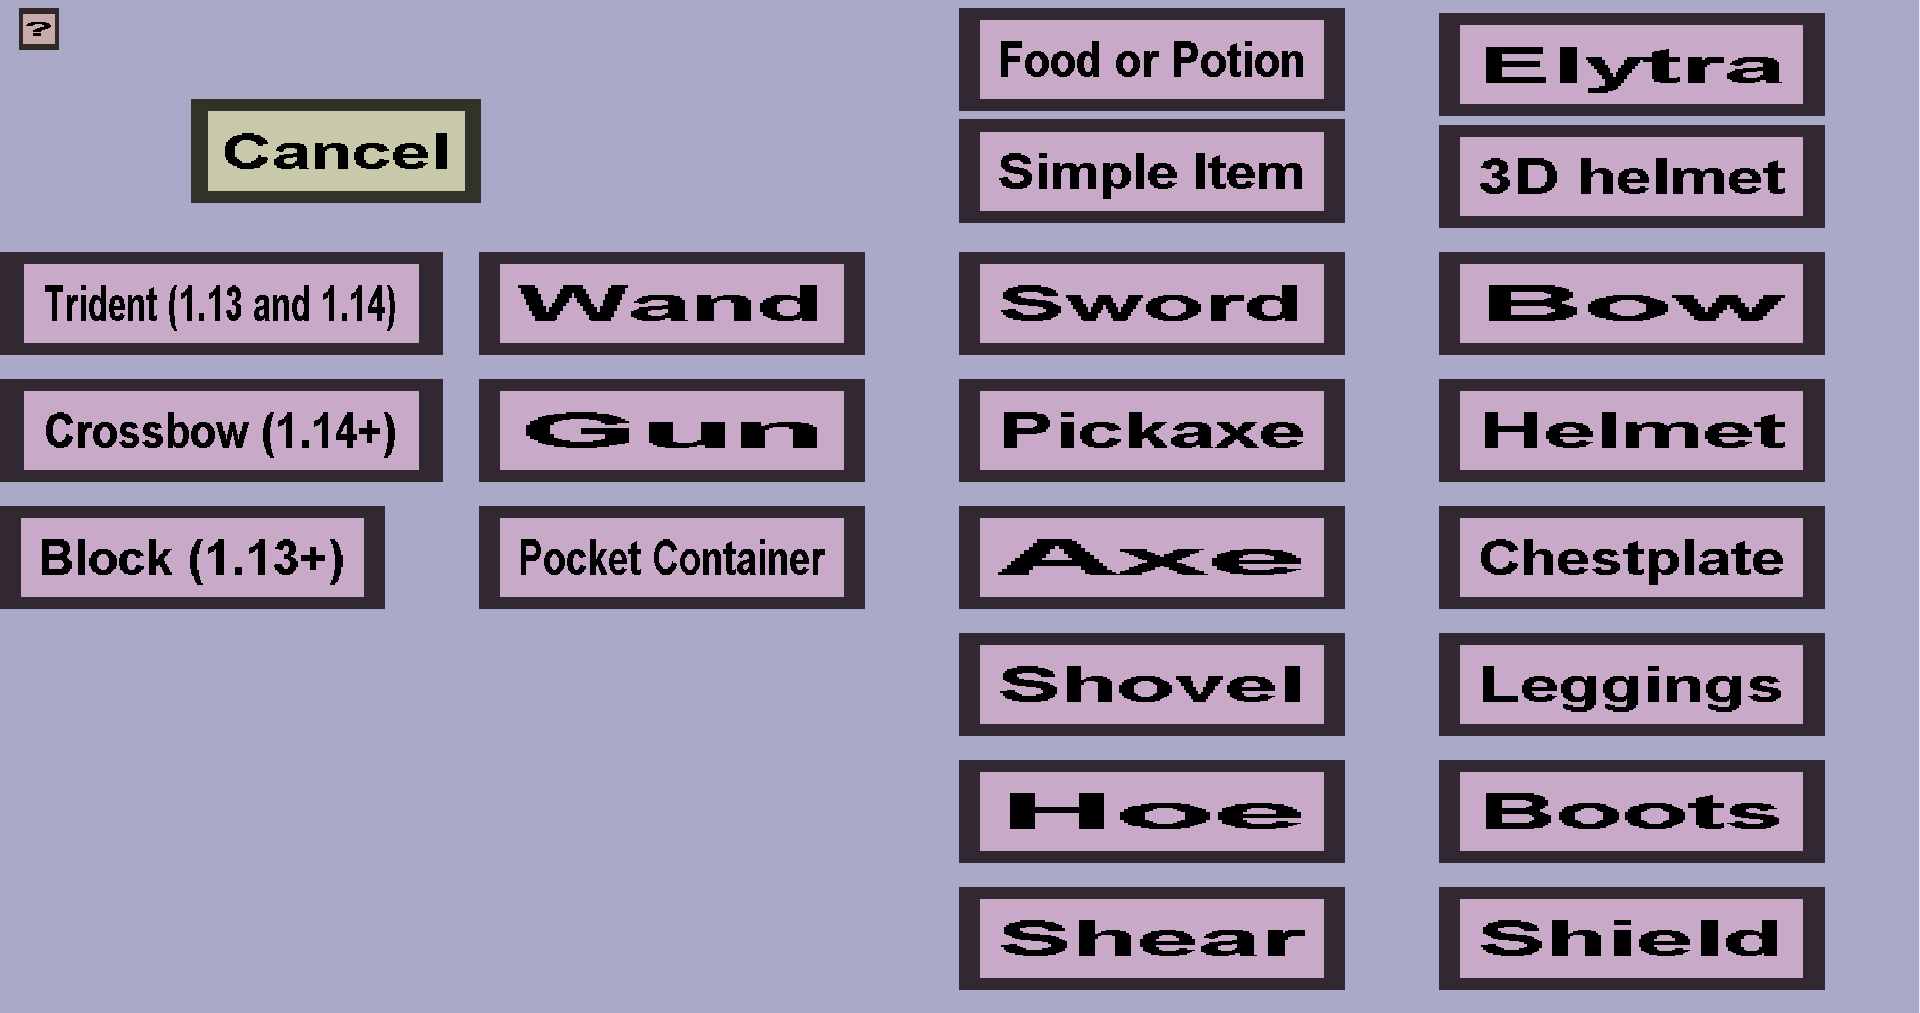
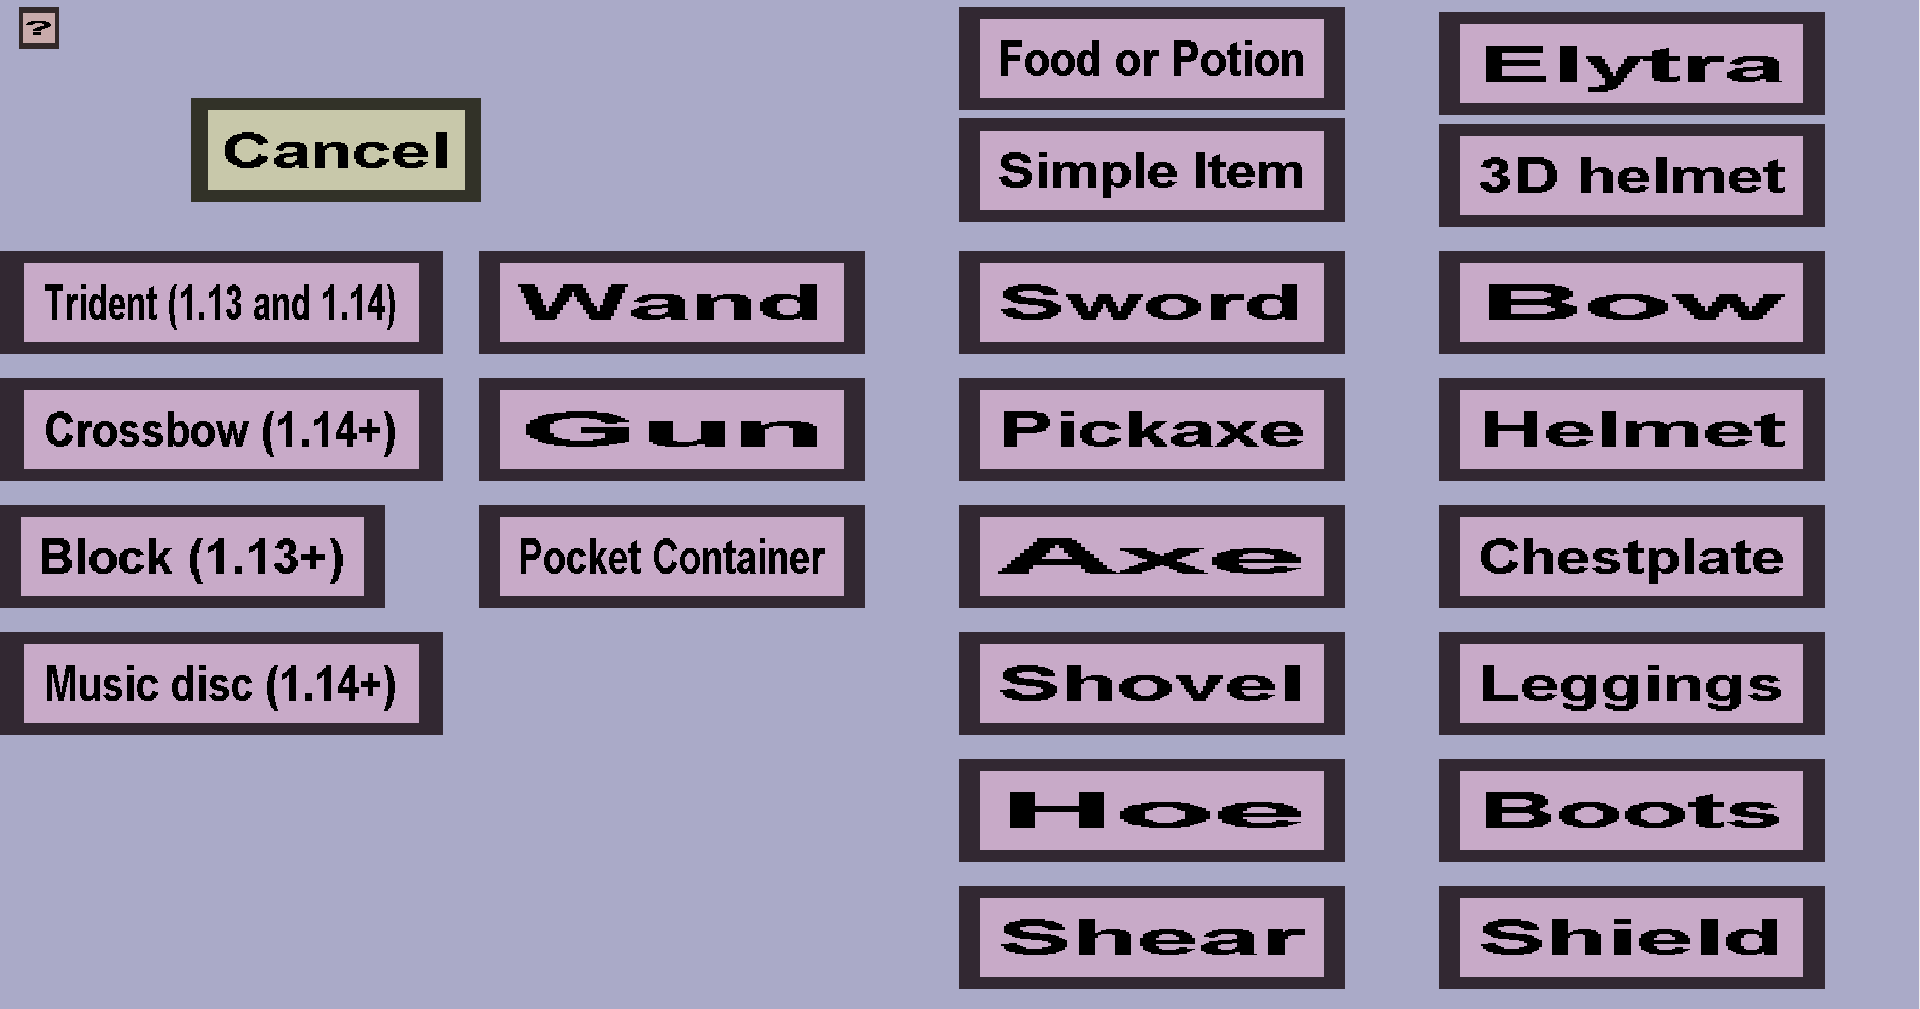
Document the custom music discs of custom items 11

diff --git a/custom items/editor documentation/edit menu/items/select type.html b/custom items/editor documentation/edit menu/items/select type.html
@@ -123,6 +123,13 @@
                     <b>Note: you need to create the corresponding block first.</b>
                 </li>
                 <li>
+                    'Music disc (1.14+)' is used for custom music discs. These are items that can
+                    be put in a jukebox, after which they will play their (custom) sound or music.
+                    They are only available in minecraft 1.14 or later because they must use real music
+                    discs as their internal item type, and non-tool internal item types can only be
+                    retextured in minecraft 1.14 and later.
+                </li>
+                <li>
                     'Wand' is for (custom) wands. Wands have the ability to shoot custom projectiles, but are basic custom 
                     items aside from that. Note that you need to create a custom projectile before you can create a wand.
                     The corresponding edit menu is the <a href="edit/wand.html">wand edit menu</a>.

diff --git a/custom items/editor documentation/edit menu/items/edit/music disc.html b/custom items/editor documentation/edit menu/items/edit/music disc.html
@@ -1,0 +1,19 @@
+<!DOCTYPE html>
+<html>
+    <head>
+        <meta charset="UTF-8" />
+        <title>Music disc edit menu</title>
+    </head>
+    <body>
+        <p>
+            The music disc edit menu can be used to create or edit custom music discs. It should look
+            like this:
+        </p>
+        <img src="music disc.png" width="50%" />
+        <p>
+            This menu contains everything the <a href="base.html">base item edit menu</a> has,
+            but with an additional 'Music...' button. When you click that button, you can configure the
+            music/sound when the music disc is put in a jukebox.
+        </p>
+    </body>
+</html>
